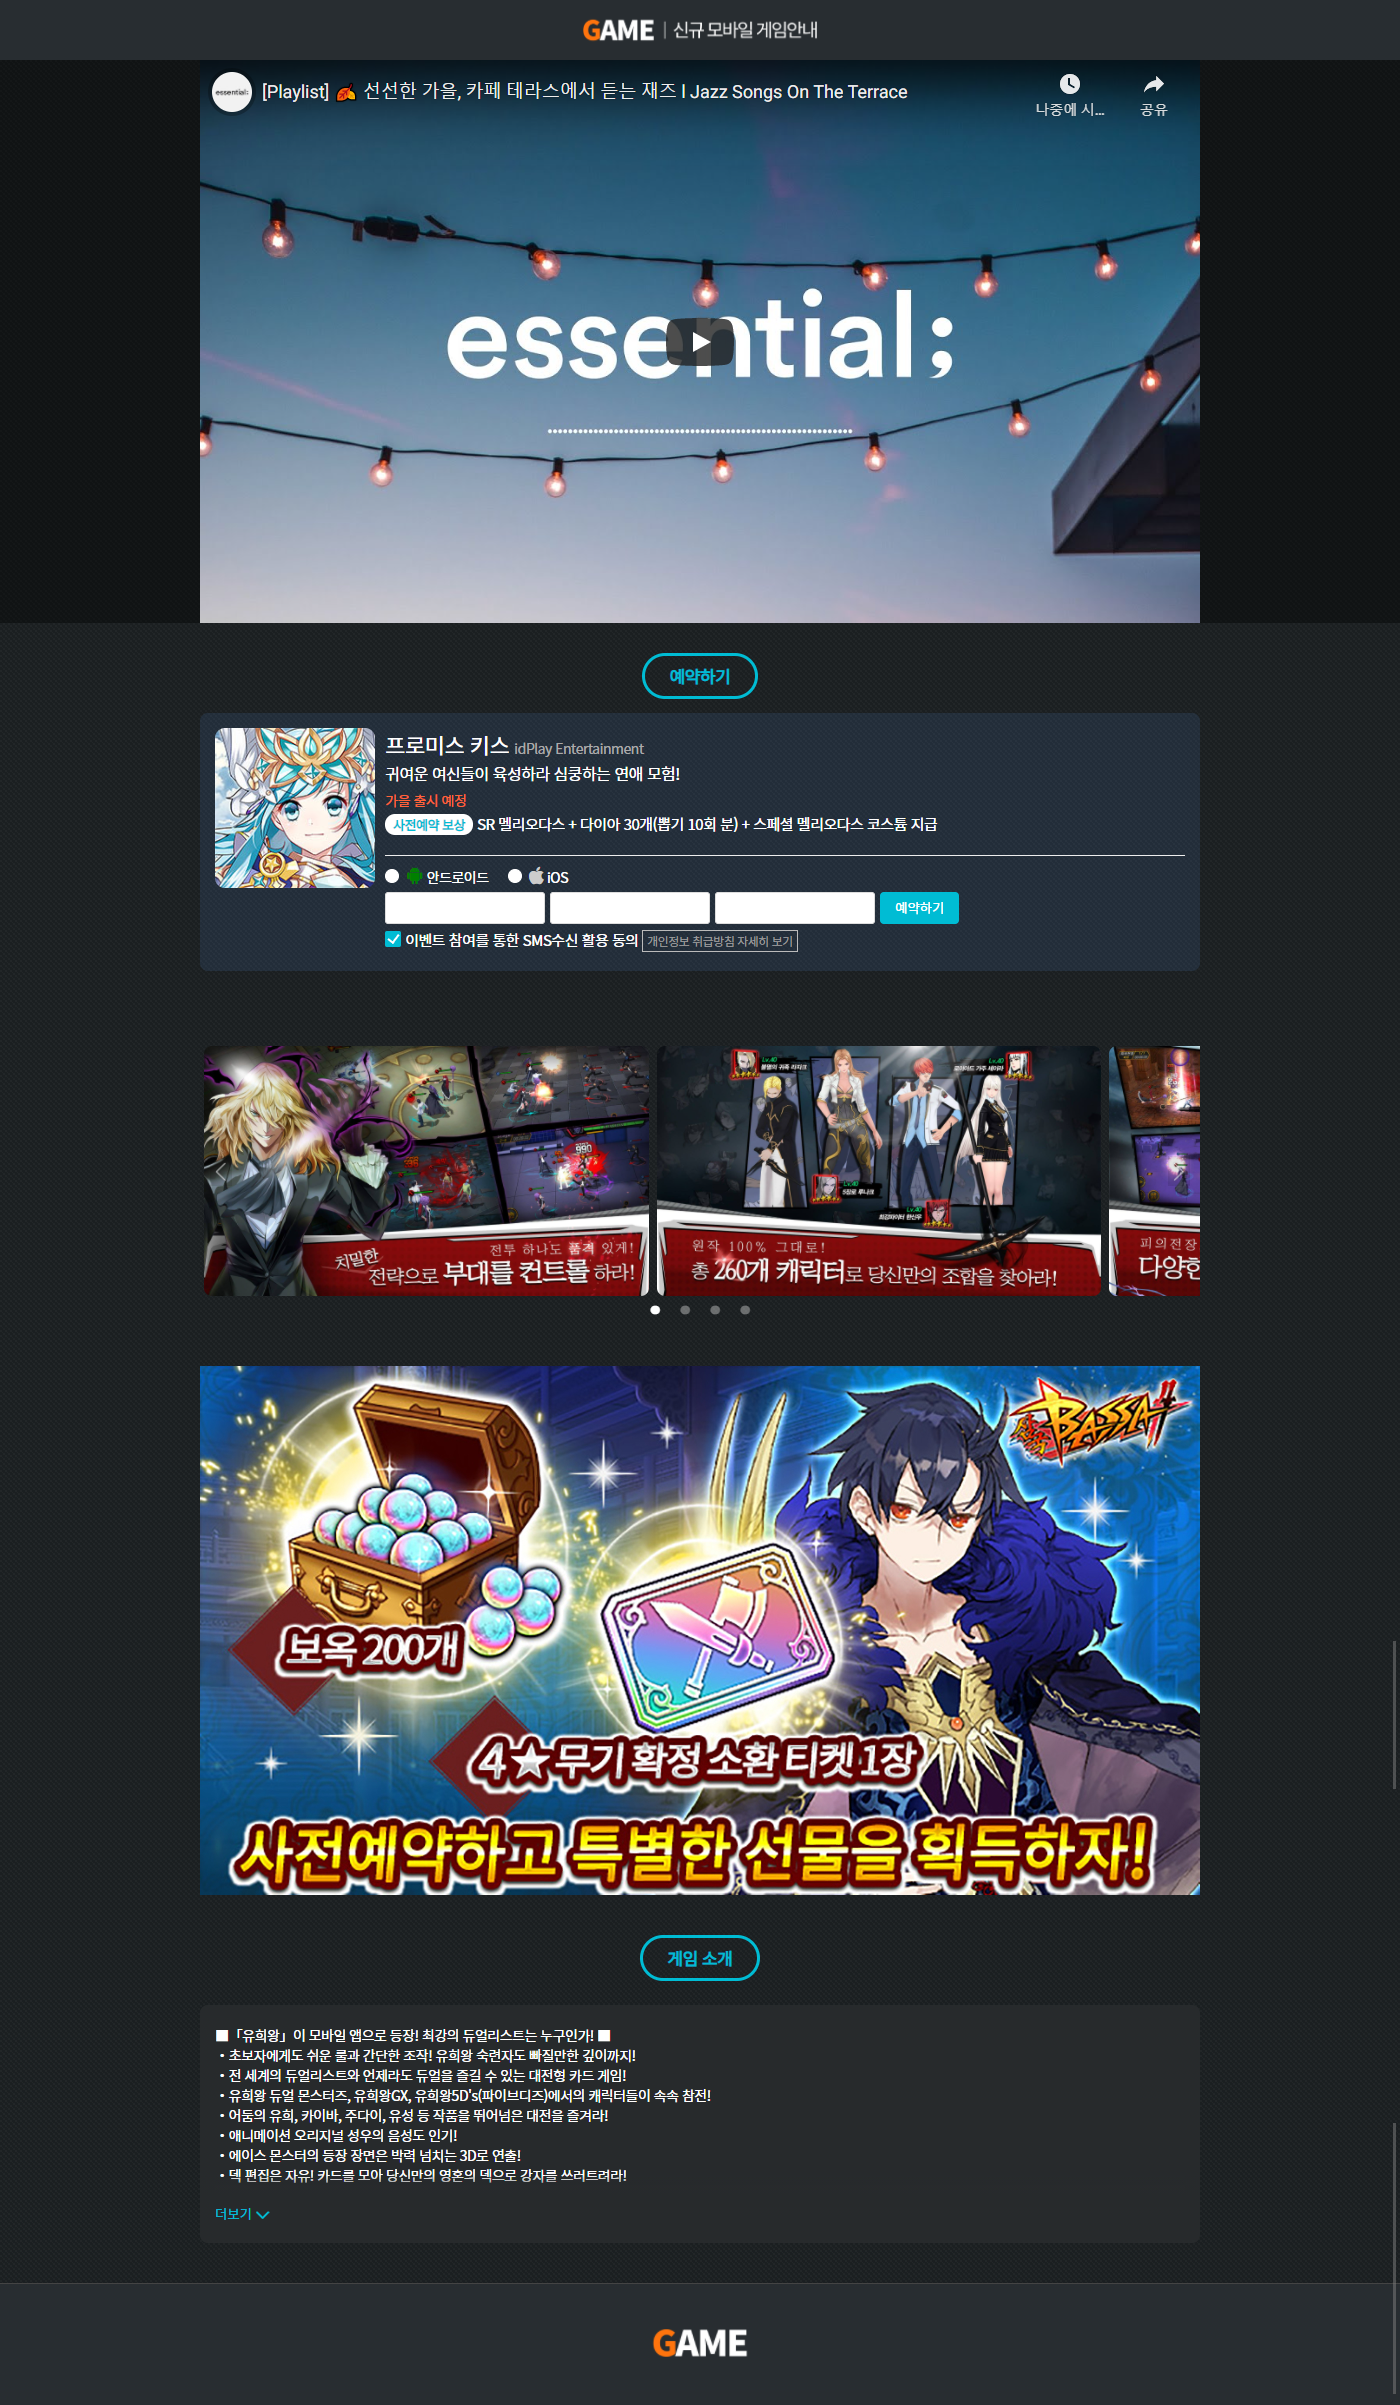
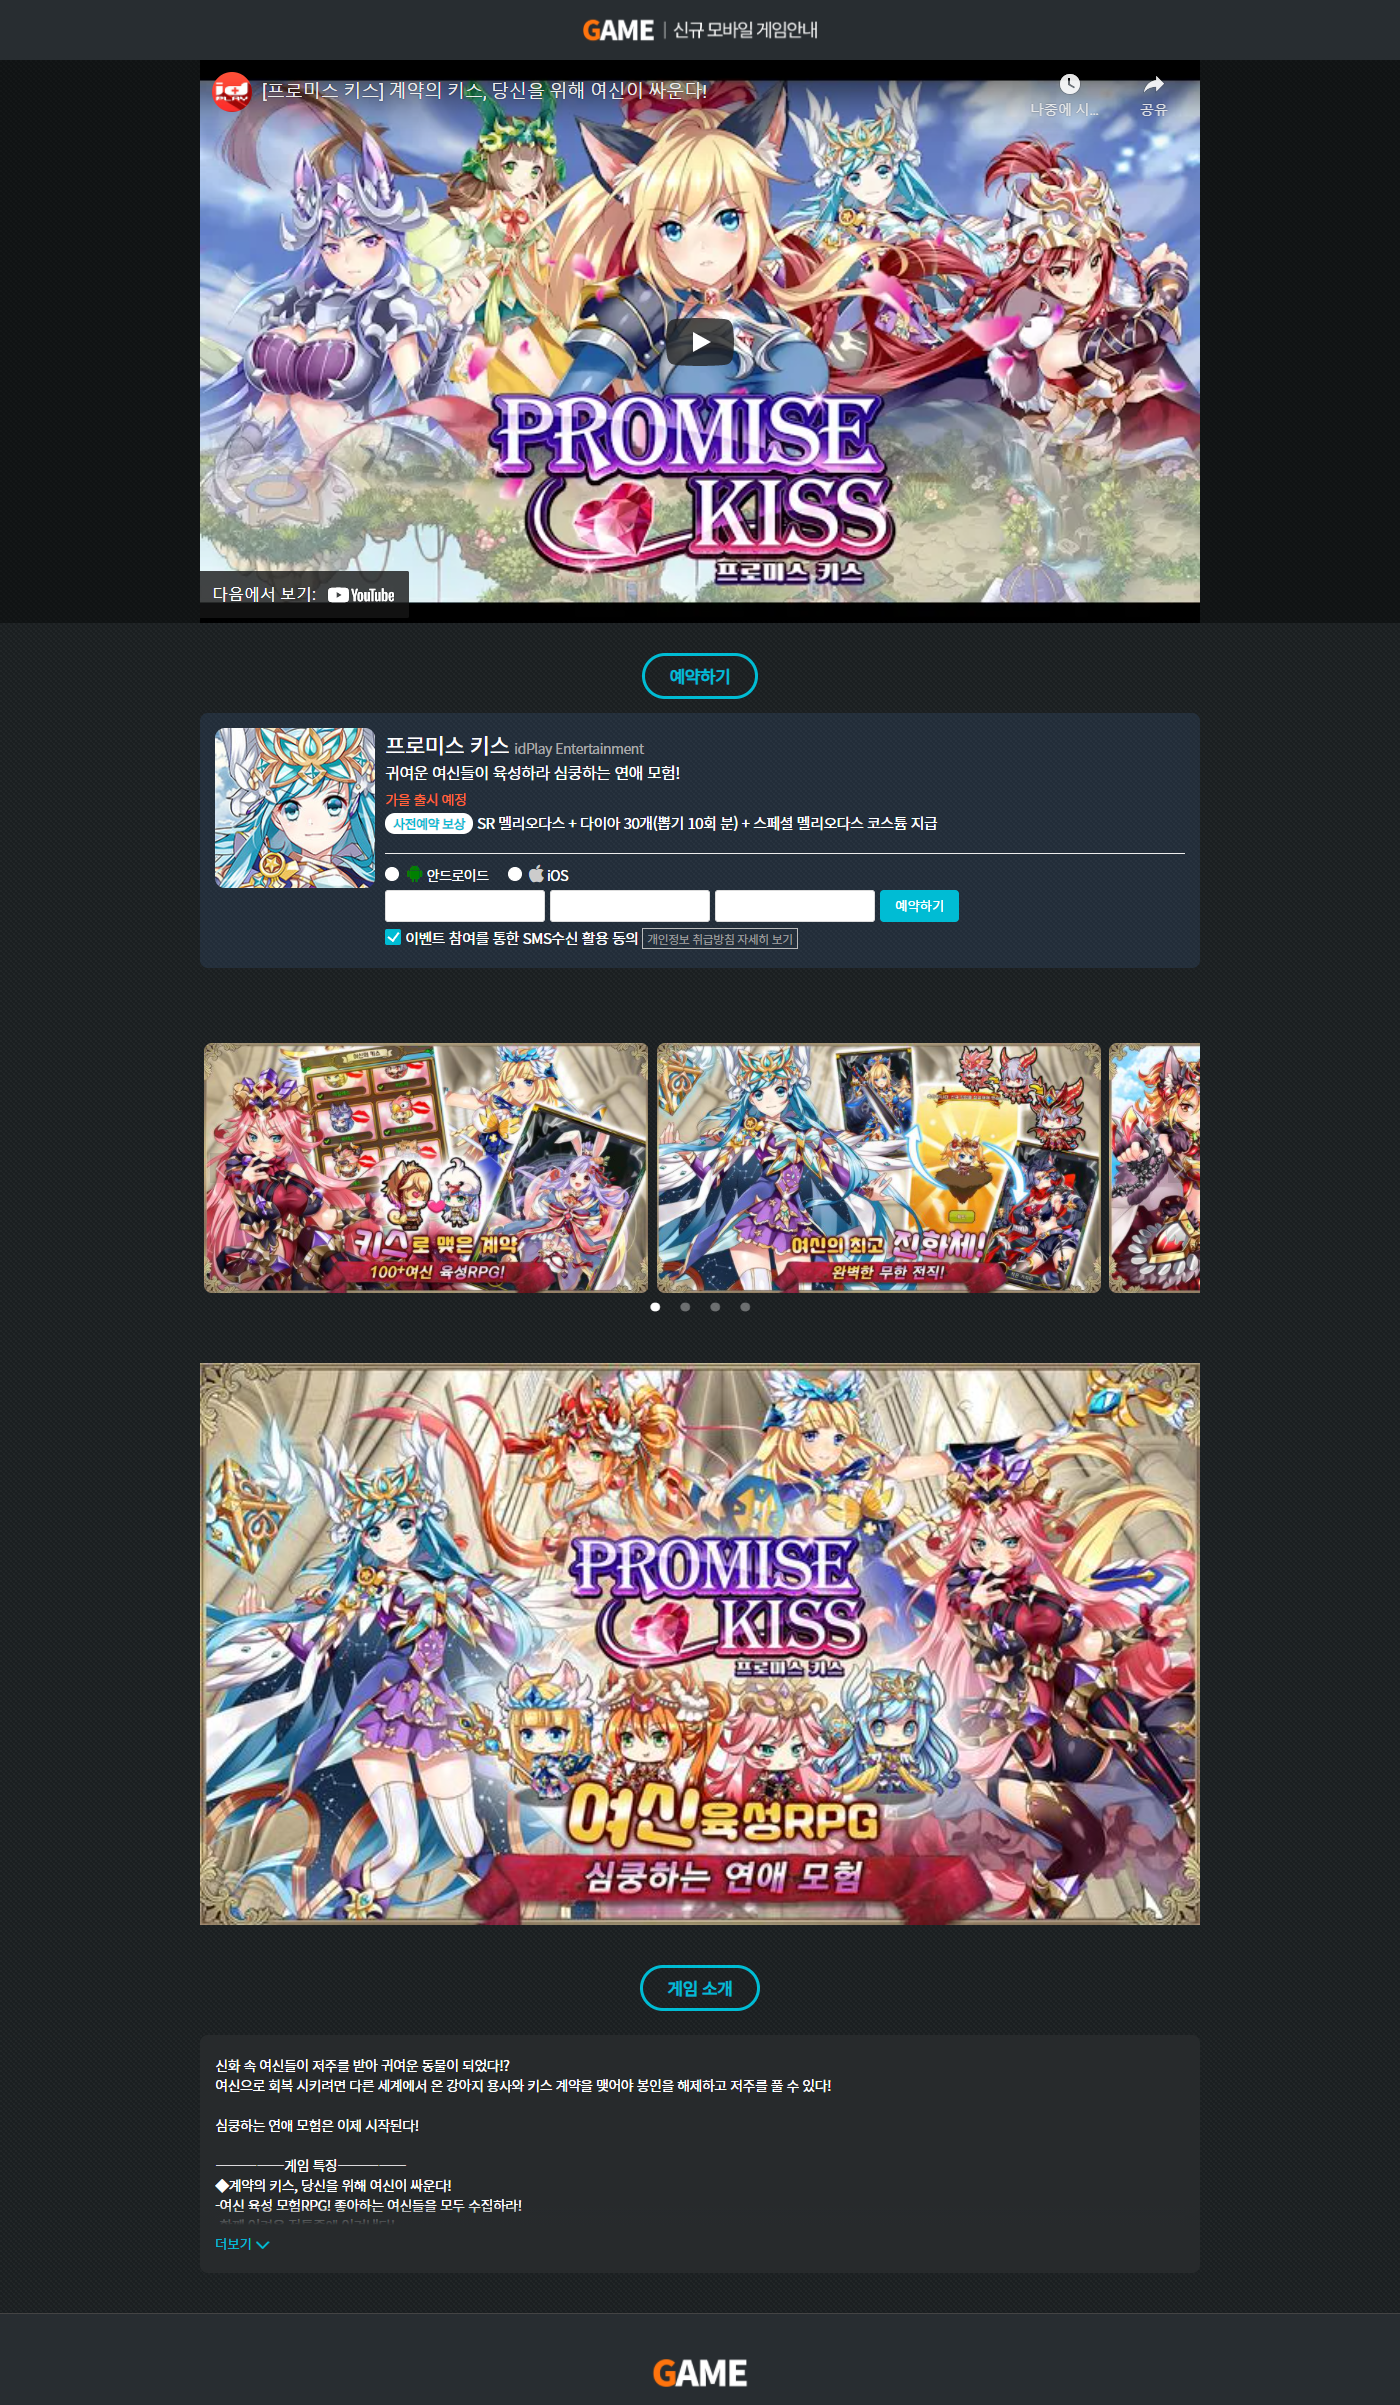
game이미지수정

diff --git a/game/index.html b/game/index.html
@@ -151,11 +151,11 @@
                     <li>
                         <a href="sub_reservation.html">
                             <div class="game_box">
-                                <div class="imgwrap"><img src="img/pic1.png" alt=""></div>
+                                <div class="imgwrap"><img src="img/pi1.png" alt=""></div>
                                 <div class="textwrap">
-                                    <h3>트라하</h3>
+                                    <h3>알케미아 스토리</h3>
                                     <p class="company">NEXON company</p>
-                                    <p class="desc">하이엔드 MMORPG 트라하의 세계로 초대합니다.</p>
+                                    <p class="desc">편하고 간단하게 조종하는 커맨드 배틀!</p>
                                 </div>
                             </div>  
                         </a>
@@ -163,11 +163,11 @@
                     <li>
                         <a href="sub_reservation.html">
                             <div class="game_box">
-                                <div class="imgwrap"><img src="img/pic2.png" alt=""></div>
+                                <div class="imgwrap"><img src="img/pi2.png" alt=""></div>
                                 <div class="textwrap">
-                                    <h3>메이플스토리M</h3>
-                                    <p class="company">NEXON company</p>
-                                    <p class="desc">언제 어디서나, 내 손안의 메이플 월드</p>
+                                    <h3>타이니팜</h3>
+                                    <p class="company">Com2uS</p>
+                                    <p class="desc">손 안의 깜찍한 동물 농장, 타이니팜!</p>
                                 </div>
                             </div>  
                         </a>
@@ -175,11 +175,11 @@
                     <li>
                         <a href="sub_reservation.html">
                             <div class="game_box">
-                                <div class="imgwrap"><img src="img/pic3.png" alt=""></div>
+                                <div class="imgwrap"><img src="img/pi3.png" alt=""></div>
                                 <div class="textwrap">
-                                    <h3>오버히트</h3>
-                                    <p class="company">NEXON company</p>
-                                    <p class="desc">Full 3D 영웅들이 보여주는 풍부하고 몰입감 높은 스토리</p>
+                                    <h3>언제나 여름방학</h3>
+                                    <p class="company">CTU games</p>
+                                    <p class="desc">친구와 같이 즐기는 모험과 채팅!</p>
                                 </div>
                             </div>  
                         </a>
@@ -187,11 +187,11 @@
                     <li>
                         <a href="sub_reservation.html">
                             <div class="game_box">
-                                <div class="imgwrap"><img src="img/pic4.png" alt=""></div>
+                                <div class="imgwrap"><img src="img/pi4.png" alt=""></div>
                                 <div class="textwrap">
-                                    <h3>크레이지 아케이드</h3>
-                                    <p class="company">NEXON company</p>
-                                    <p class="desc">모바일에서 팡! 터지는 크레이지아케이드 BnB M</p>
+                                    <h3>붉은보석2</h3>
+                                    <p class="company">L&K</p>
+                                    <p class="desc">다시 타오르는 모험의 불꽃!</p>
                                 </div>
                             </div>  
                         </a>
@@ -199,11 +199,11 @@
                     <li>
                         <a href="sub_reservation.html">
                             <div class="game_box">
-                                <div class="imgwrap"><img src="img/pic5.png" alt=""></div>
+                                <div class="imgwrap"><img src="img/pi5.png" alt=""></div>
                                 <div class="textwrap">
-                                    <h3>고질라 디펜스 포스</h3>
-                                    <p class="company">NEXON company</p>
-                                    <p class="desc">방치형 기지 매니지먼트 게임</p>
+                                    <h3>로엠 : 던전 레이드 RPG</h3>
+                                    <p class="company">ABISS Inc.</p>
+                                    <p class="desc">모든 사람들이 "진짜" 원하는 RPG</p>
                                 </div>
                             </div>  
                         </a>
@@ -211,11 +211,11 @@
                     <li>
                         <a href="sub_reservation.html">
                             <div class="game_box">
-                                <div class="imgwrap"><img src="img/pic6.png" alt=""></div>
+                                <div class="imgwrap"><img src="img/pi6.png" alt=""></div>
                                 <div class="textwrap">
-                                    <h3>액스(AxE)</h3>
-                                    <p class="company">NEXON company</p>
-                                    <p class="desc">넥슨 초대형 모바일 MMORPG</p>
+                                    <h3>나우 리마스터</h3>
+                                    <p class="company">voocle</p>
+                                    <p class="desc">MMORPG의 새로운 시작은 바로 지금! 나우 리마스터!</p>
                                 </div>
                             </div>  
                         </a>
@@ -223,11 +223,11 @@
                     <li>
                         <a href="sub_reservation.html">
                             <div class="game_box">
-                                <div class="imgwrap"><img src="img/pic7.png" alt=""></div>
+                                <div class="imgwrap"><img src="img/pi7.png" alt=""></div>
                                 <div class="textwrap">
-                                    <h3>삼국지 조조전 Online</h3>
-                                    <p class="company">NEXON company</p>
-                                    <p class="desc">모바일로 만나는 SRPG의 명작</p>
+                                    <h3>라그나로크M: TRINITY</h3>
+                                    <p class="company">GRAVITY Co., Ltd.</p>
+                                    <p class="desc">다시 시작 될 모험을 위하여, MMORPG 완성에 다가서다</p>
                                 </div>
                             </div>  
                         </a>
@@ -235,11 +235,11 @@
                     <li>
                         <a href="sub_reservation.html">
                             <div class="game_box">
-                                <div class="imgwrap"><img src="img/pic8.png" alt=""></div>
+                                <div class="imgwrap"><img src="img/pi8.png" alt=""></div>
                                 <div class="textwrap">
-                                    <h3>스피릿위시</h3>
+                                    <h3>바람의나라: 연</h3>
                                     <p class="company">NEXON company</p>
-                                    <p class="desc">가슴 뛰는 판타지 모험</p>
+                                    <p class="desc">그리웠던 그 순간, 다시 느껴 보기 바람!</p>
                                 </div>
                             </div>  
                         </a>

diff --git a/game/sub_reservation.html b/game/sub_reservation.html
@@ -38,7 +38,7 @@
     <div class="top_media">
         <div class="wrap">
             <div class="video">
-                <iframe width="560" height="315" src="https://www.youtube.com/embed/LlDSMktrlwE" frameborder="0" allow="accelerometer; autoplay; clipboard-write; encrypted-media; gyroscope; picture-in-picture" allowfullscreen></iframe>
+                <iframe width="560" height="315" src="https://www.youtube.com/embed/wm4xfFCcgs0" frameborder="0" allow="accelerometer; autoplay; clipboard-write; encrypted-media; gyroscope; picture-in-picture" allowfullscreen></iframe>
             </div>
         </div>
     </div>
@@ -107,7 +107,7 @@
             </div>
             <!--/ sub_slider-->
             <div class="detail_media">
-                <img src="img/img1.jpg" alt="">
+                <img src="img/img1.jpg" alt="" width="100%">
             </div>
             <!--/ detail_media-->
             <div class="introduce">
@@ -116,34 +116,23 @@
                 </div>
                 <div class="intro_content_wrap">
                     <div class="intro_content">
-                        ■「유희왕」이 모바일 앱으로 등장! 최강의 듀얼리스트는 누구인가! ■<br>
-                        ・초보자에게도 쉬운 룰과 간단한 조작! 유희왕 숙련자도 빠질만한 깊이까지!<br>
-                        ・전 세계의 듀얼리스트와 언제라도 듀얼을 즐길 수 있는 대전형 카드 게임!<br>
-                        ・유희왕 듀얼 몬스터즈, 유희왕GX, 유희왕5D's(파이브디즈)에서의 캐릭터들이 속속 참전!<br>
-                        ・어둠의 유희, 카이바, 주다이, 유성 등 작품을 뛰어넘은 대전을 즐겨라!<br>
-                        ・애니메이션 오리지널 성우의 음성도 인기!<br>
-                        ・에이스 몬스터의 등장 장면은 박력 넘치는 3D로 연출!<br>
-                        ・덱 편집은 자유! 카드를 모아 당신만의 영혼의 덱으로 강자를 쓰러트려라!<br>
-                        <br>
-                        <br>
-                        [특징]<br>
-                        -듀얼<br>
-                        유희왕 오피셜 카드게임이 모바일 버전으로 등장했습니다. 모바일에 최적화된 새로운 디자인으로 컨트롤을 금세 익힐 수 있습니다. 또한, "블랙 매지션"이나 "푸른 눈의 백룡"과 같은 주력 몬스터들의 역동적인 애니메이션 효과를 볼 수 있습니다!<br>
-                        <br>
-                        -듀얼 월드(싱글 모드)<br>
-                        '유희왕' 세계에서 가장 좋아하는 캐릭터들과 듀얼을 펼치고 스테이지 미션을 완료하여 다양한 보상을 받으세요!<br>
-                        상점에서 새로운 카드를 구하세요! <br>
-                        <br>
-                        -듀얼리스트<br>
-                        유희, 카이바, 조이, 메이 등 전설의 듀얼리스트들에게 도전하세요! 특정 미션을 완료하고, 인기 캐릭터들을 만나보세요!<br>
-                        원하는 캐릭터의 레벨을 올려 스킬과 보상을 받고 최고의 실력을 키우세요!<br>
-                        <br>
-                        -온라인 대전(대전 모드)<br>
-                        유희왕 듀얼 링크스로 전 세계 방방곡곡의 플레이어들과 언제 어디서든 뜨거운 열전을 펼치세요! 랭킹을 계속 올려 듀얼 월드 킹의 자리를 차지하세요!<br>
-                        <br>
-                        -덱<br>
-                        게임 속에서 수집한 카드로 강력한 덱을 구성하고 상대를 제압하세요!<br>
-                        카드는 향후에도 계속 추가되니 기대해 주세요!<br><br>
+                        신화 속 여신들이 저주를 받아 귀여운 동물이 되었다!?<br>
+여신으로 회복 시키려면 다른 세계에서 온 강아지 용사와 키스 계약을 맺어야 봉인을 해제하고 저주를 풀 수 있다!<br>
+<br>
+심쿵하는 연애 모험은 이제 시작된다!<br>
+<br>
+—————게임 특징—————<br>
+◆계약의 키스, 당신을 위해 여신이 싸운다!<br>
+-여신 육성 모험RPG! 좋아하는 여신들을 모두 수집하라!<br>
+-함께 어려운 전투중에 이겨낸다!<br>
+<br>
+◆다양한 직업, 여신 선택 무제한!<br>
+-36가지가 넘는 다양한 직업, 자유로운 전직 변경!<br>
+-다양한 진화로 놀라움을 선사할 것이다!<br>
+<br>
+◆팀원들과 협력이 격한 전투를 진행한다!<br>
+-편리한 조작, 한손으로도 강력한 필사기 사용 가능!<br>
+-이제 혼자가 아닌다! 길드 가입해 고수들과 함께 전투에 참여하라!<br><br>
                     </div>
                     <div class="more_view_btn">
                         <button class="btn" id="moreView">더보기<img src="img/down_arrow.png" alt=""></button>
